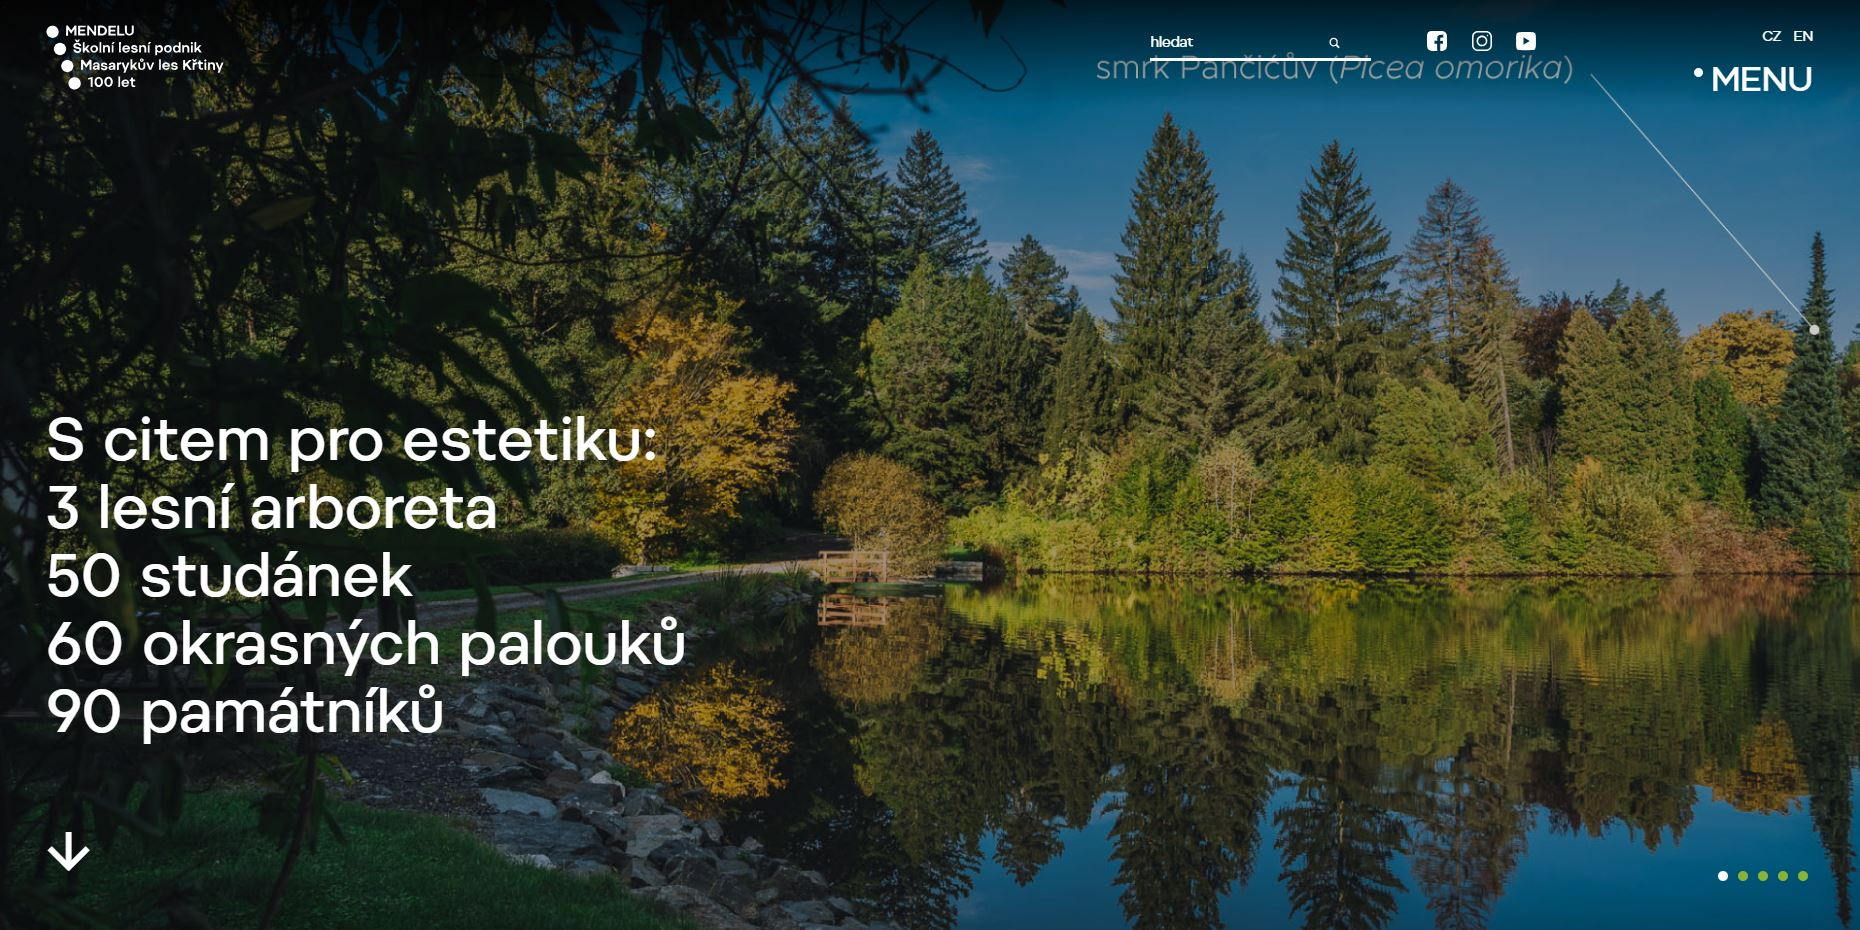
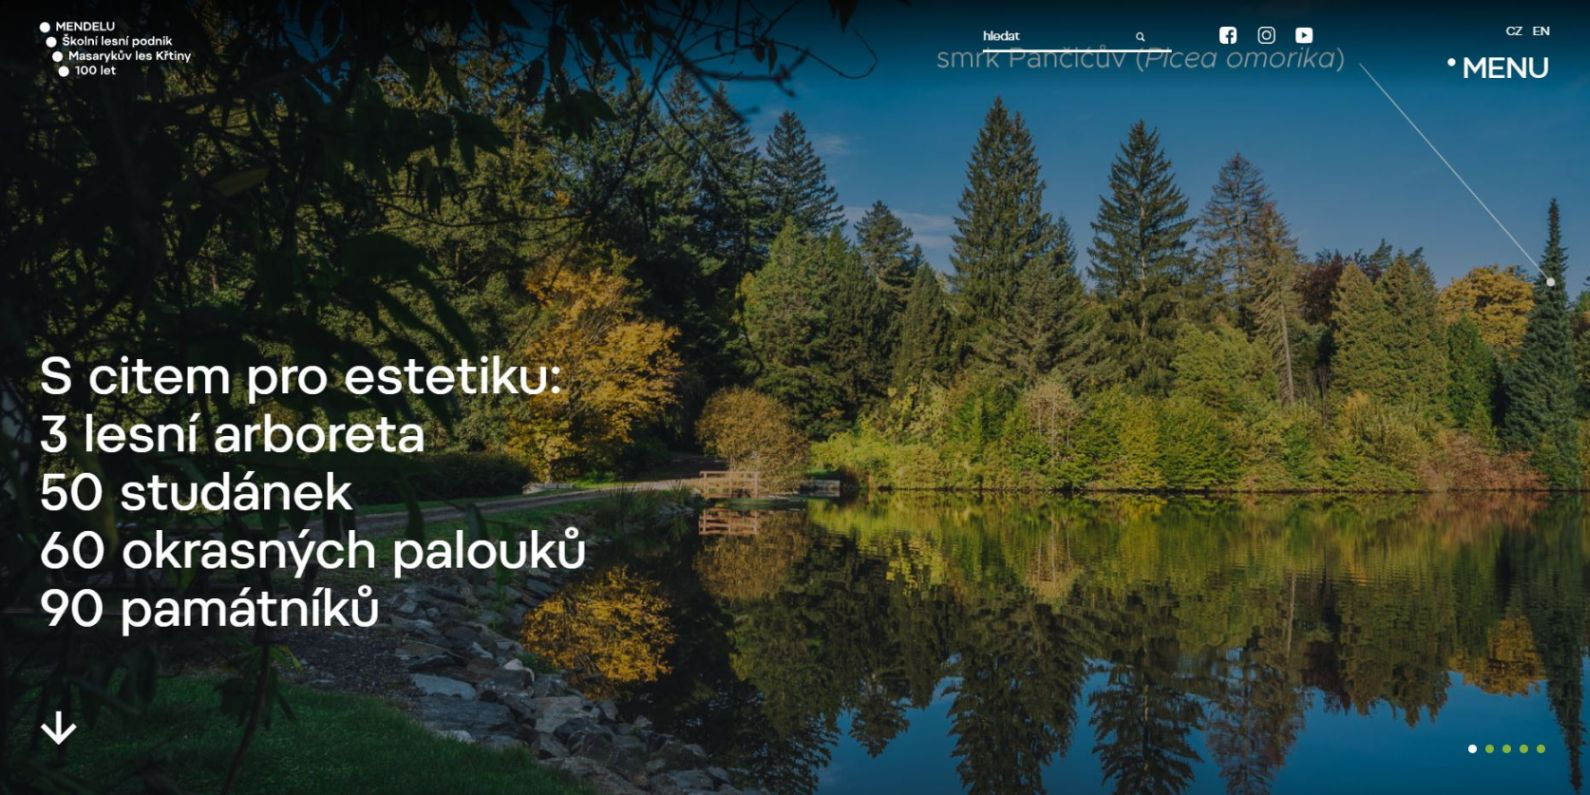
fix: media queries

diff --git a/src/components/Header/style.css b/src/components/Header/style.css
@@ -16,7 +16,7 @@
 }
 
 .header-text h1 {
-    font-size: 80px;
+    font-size: 90px;
     font-weight: 500;
     line-height: 1;
     margin: 0;
@@ -39,4 +39,23 @@
 
 .arrow-down:hover{
     transform: scale3d(1.1, 1.1, 1.1);
+}
+
+@media screen and (max-width: 1024px) {
+    .header-text h1 {
+        font-size: 70px;
+    }
+}
+
+@media screen and (max-width: 640px) {
+    .header-text{
+        transform: translate(-50%, -60%);
+    }
+
+    .header-text h1 {
+        font-size: 50px;
+    }
+    .header-text h2 {
+        font-size: 40px;
+    }
 }

diff --git a/src/components/Project/style.css b/src/components/Project/style.css
@@ -58,3 +58,10 @@
         width: 50%;
     }
 }
+
+@media screen and (max-width: 640px) {
+    .project{
+        width: 100%;
+        padding-bottom: 50px;
+    }
+}
